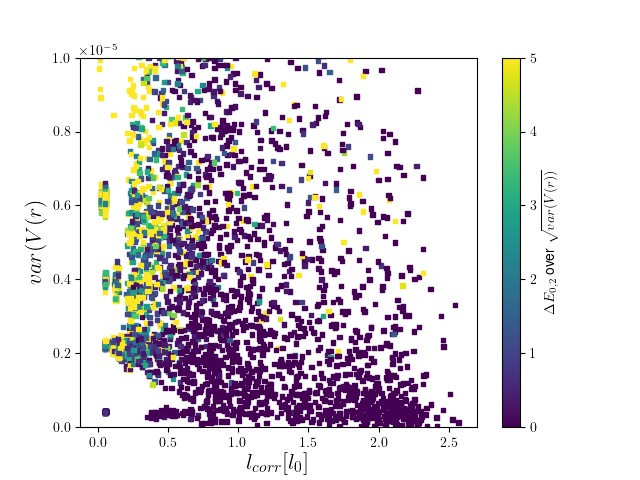
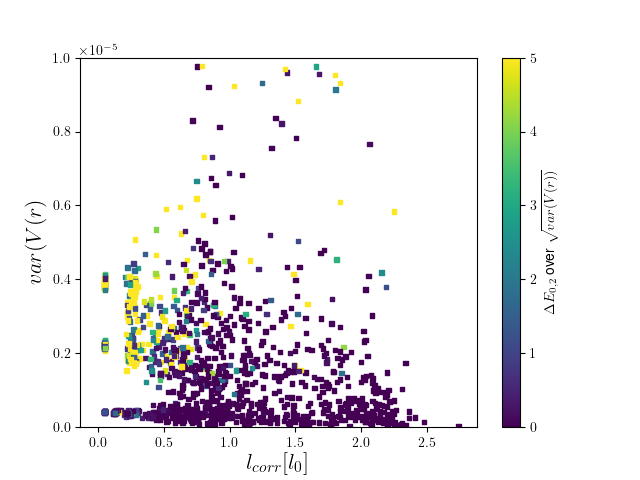
message

diff --git a/tkiterTrial/cli/phasePlot.py b/tkiterTrial/cli/phasePlot.py
@@ -854,11 +854,18 @@ def plot_rev_over_bandwith(data, Ne, ia):
     print (theData.shape)
     
     
-    electronNumberDataArray =theData[theData[:,0]==Ne] 
-    HCArray = electronNumberDataArray[electronNumberDataArray[:,interactionIndex]==1]
+    electronNumberDataArray =theData[theData[:,0]==Ne]
+    
+    HCArray = electronNumberDataArray[electronNumberDataArray[:,interactionIndex]==ia]
+    if ia == 0:
+        # remove senseless data
+        HCArray = HCArray[np.where(HCArray[:,evMaxIndex]> 10)]
+        smallrevArray = HCArray[np.where(np.abs(HCArray[:,evMaxIndex]-80) < 2)]
+    else:
+        smallrevArray = HCArray[np.where(HCArray[:,evMaxIndex] < 2)]
     unitCellSize = np.sqrt(2 * np.pi * 3 * Ne)
     # Filter data were rev < 2, print bandwidth
-    smallrevArray = HCArray[np.where(HCArray[:,evMaxIndex] < 2)]
+    
     number_of_rows = smallrevArray.shape[0]
     random_indices = np.random.choice(number_of_rows, size=5, replace=False)
      
@@ -1085,7 +1092,11 @@ def createScatterbandwithvarlcorr(data, Ne, ia):
 def dataSetToString(dataset):
     print (dataset.shape)
     print(dataset)
-    retval =  "$\sigma$, $V_{max}$"+ str(dataset[[sigmaIndex,VmaxIndex]]) +" \\ "
+    if dataset[interactionIndex] == 1:
+        retval = 'HC \\'
+    else:
+        retval = 'Coulomb \\'
+    retval =  retval +"$\sigma$, $V_{max}$"+ str(dataset[[sigmaIndex,VmaxIndex]]) +" \\ "
     retval = retval + "$l_{corr}$ (1d,x,y), variance"+  str(dataset[[8,9,10,13]]) +" \\ "
     retval = retval+ "Vortexgroessen (ev,vv)"+ str(dataset[[evMaxIndex, vvMaxIndex] ]) +" \\ "
         #print ("Spectrum und was davor= ", dataset[[12,13,14,15,16,17]])
@@ -1100,6 +1111,7 @@ def printDataReadable(data):
     for dataset in data:
         print (dataset)
         print ('---------------------------------------')
+        
         print ("Ne, Nm", dataset[[0,1]])
         print ("interaction,sigma, Vmax", dataset[[interactionIndex,sigmaIndex,VmaxIndex]])
         print ("lcorr, variance", dataset[[8,9,13]])
@@ -1151,12 +1163,15 @@ print (extraColumn.shape)
 allData = np.append(allData, extraColumn, axis=1)
 
 print (allData.shape)
+plot_rev_over_bandwith(allData, 6,0)
 plot_rev_over_bandwith(allData, 6,1)
 createScatterbandwithvarlcorr(allData, 6, 1)
-sys.exit()
-createPhaseDiagram(allData, 5,1)
+createScatterbandwithvarlcorr(allData, 6, 0)
+
+createPhaseDiagram(allData, 6,0)
 createPhaseDiagram(allData, 6,1)
-createPhaseDiagram(allData, 6, 1, 19)
+
+sys.exit()
 plotDataAndExponentialFit(allData,6,1)
 plotDataAndExponentialFit(allData,6,0)
 createPhaseDiagram(allData, 6,0)
